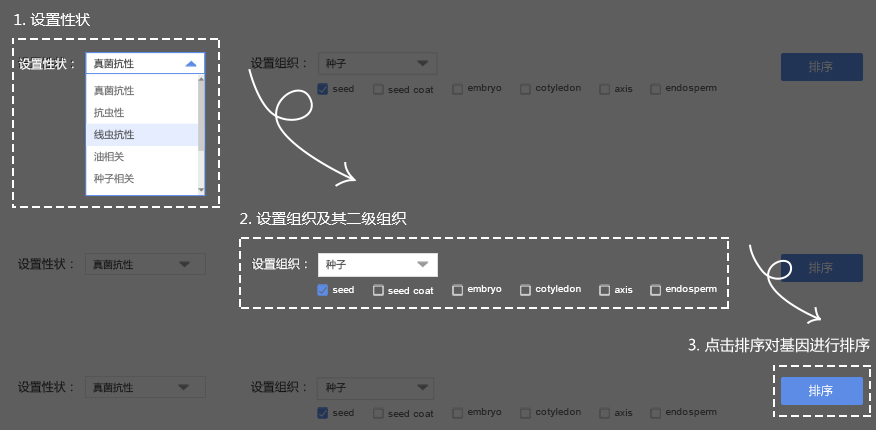
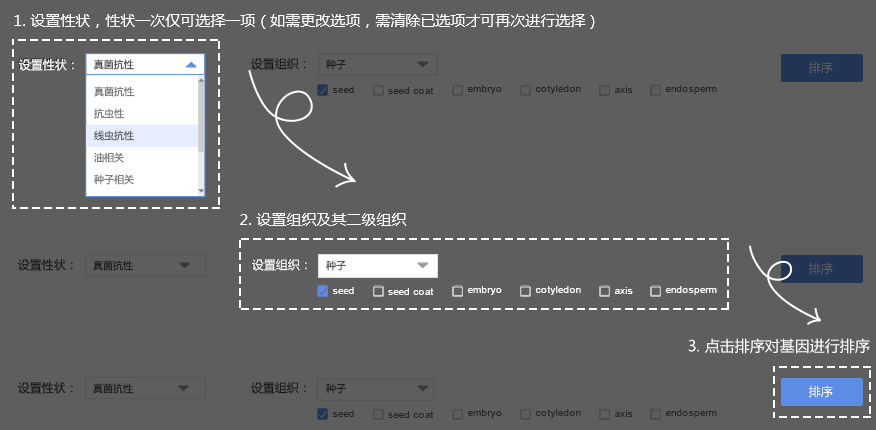
提示框添加

diff --git a/iqgs/src/main/webapp/static/css/sort.css b/iqgs/src/main/webapp/static/css/sort.css
@@ -161,14 +161,21 @@ body .tab-detail-tbody tr td {
 }
 
 .soetTable {
-    min-width: 846px;
+    min-width: 860px;
 }
 
 .soetTable .geneId a {
     color: #5c8ce6;
     cursor: pointer;
 }
-
+.tishi{
+    position: relative;
+    top: 14px;
+    padding-left: 12px;
+    color: #5c8ce6;
+    font-size: 12px;
+}
+.tishi img{padding-right: 6px; vertical-align:bottom}
 /*.soetTable .description{width: 200px;}*/
 body .sortMainImg {
     border: none;
